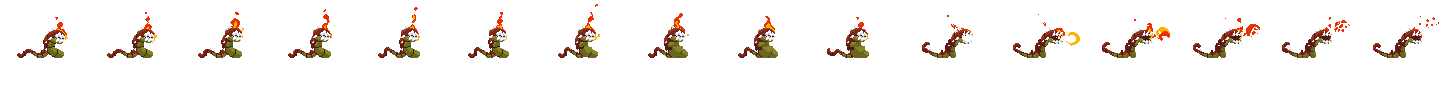
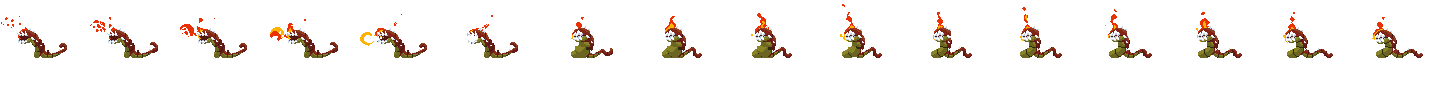
att worm

diff --git a/NinjaHeroe/FortOfIllusion.cpp b/NinjaHeroe/FortOfIllusion.cpp
@@ -34,7 +34,7 @@ FireWarrior* FortOfIllusion::Firewarrior  = nullptr;      //
 FortOfIllusion::FortOfIllusion(){
     scene       = new Scene();
     backg       = new FortOfIllusionBG();
-    worm        = new Worm(NinjaHeroe::player->X() + 90, NinjaHeroe::player->Y());
+    worm        = new Worm(350, 390);
     brickSpeed = 400;
     brickVoid = new Brick("Resources/FortOfIllusion/layers/BrickVoid1.png");
     brickVoid->type = BRICKVOID;
@@ -61,8 +61,6 @@ void FortOfIllusion::Init()
     scene->Add(backg, MOVING);
 
     // pano de fundo do jogo
-
-    worm->MoveTo(200, window->CenterY() + 80);
     scene->Add(worm, MOVING);
     scene->Add(worm->fireball, MOVING);
     
@@ -105,6 +103,11 @@ void FortOfIllusion::Init()
     brick7->MoveTo(2200 + 457, 352);
     scene->Add(brick7, MOVING);
     // ----------------------
+
+    // ----------------------
+    // inimigos
+    // ----------------------
+    // worms
 }
 // ------------------------------------------------------------------------------
 void FortOfIllusion::Update()
@@ -115,7 +118,6 @@ void FortOfIllusion::Update()
         backg->posX -= brickSpeed * gameTime;
         brickVoid->Translate(-brickSpeed * gameTime, 0);
         brickVoid2->Translate(-brickSpeed * gameTime, 0);
-
         brick1->Translate(-brickSpeed * gameTime, 0);
         brick2->Translate(-brickSpeed * gameTime, 0);
         brick3->Translate(-brickSpeed * gameTime, 0);
@@ -123,6 +125,8 @@ void FortOfIllusion::Update()
         brick5->Translate(-brickSpeed * gameTime, 0);
         brick6->Translate(-brickSpeed * gameTime, 0);
         brick7->Translate(-brickSpeed * gameTime, 0);
+        //----------------inimigos-------------------------
+        worm->Translate(-brickSpeed * gameTime, 0);
 
     }
 
@@ -139,7 +143,8 @@ void FortOfIllusion::Update()
         brick5->Translate(brickSpeed * gameTime, 0);
         brick6->Translate(brickSpeed * gameTime, 0);
         brick7->Translate(brickSpeed * gameTime, 0);
-
+        //----------------inimigos-------------------------
+        worm->Translate(brickSpeed * gameTime, 0);
     }
     // é pq mexe o fundo e o brick fica parado, o brick tem que acompanhar o fundo no caso
     if (window->KeyPress(VK_DOWN)) {
@@ -161,6 +166,8 @@ void FortOfIllusion::Update()
         brick5->Translate(brickSpeed * gameTime, 0);
         brick6->Translate(brickSpeed * gameTime, 0);
         brick7->Translate(brickSpeed * gameTime, 0);
+        //----------------inimigos-------------------------
+        worm->Translate(-brickSpeed * gameTime, 0);
     }
     // é pq mexe o fundo e o brick fica parado, o brick tem que acompanhar o fundo no caso
     if (window->KeyPress(VK_UP)) {
@@ -173,6 +180,9 @@ void FortOfIllusion::Update()
     
     
     if (worm->fireball->X() > window->Width()) {
+        worm->fireball->shootOff();
+    }
+    if (worm->fireball->X() < 0) {
         worm->fireball->shootOff();
     }
 

diff --git a/NinjaHeroe/Fireball.cpp b/NinjaHeroe/Fireball.cpp
@@ -21,13 +21,16 @@ Fireball::Fireball()
     tileset = new TileSet("Resources/Worm/FireBall/Move.png", 46, 46, 6, 6);
     anim = new Animation(tileset, 0.120f, true);
 
+    uint move[6] = { 5,4,3,2,1,0 };
+
+    anim->Add(1, move, 6);
     // cria a bound box
     //inicializa o estado da bola
     shoot = false;
     //inicializando tipo do objeto
     type = FIREBALL;
     //inicializando velocidade
-    speed = 60;
+    speed = -60;
     BBox(new Circle(10));
 }
 
@@ -65,6 +68,7 @@ void Fireball::Update()
     
     if (shoot) {
         Translate(speed * gameTime, 0);
+        anim->Select(1);
         anim->NextFrame();
     }
 }
